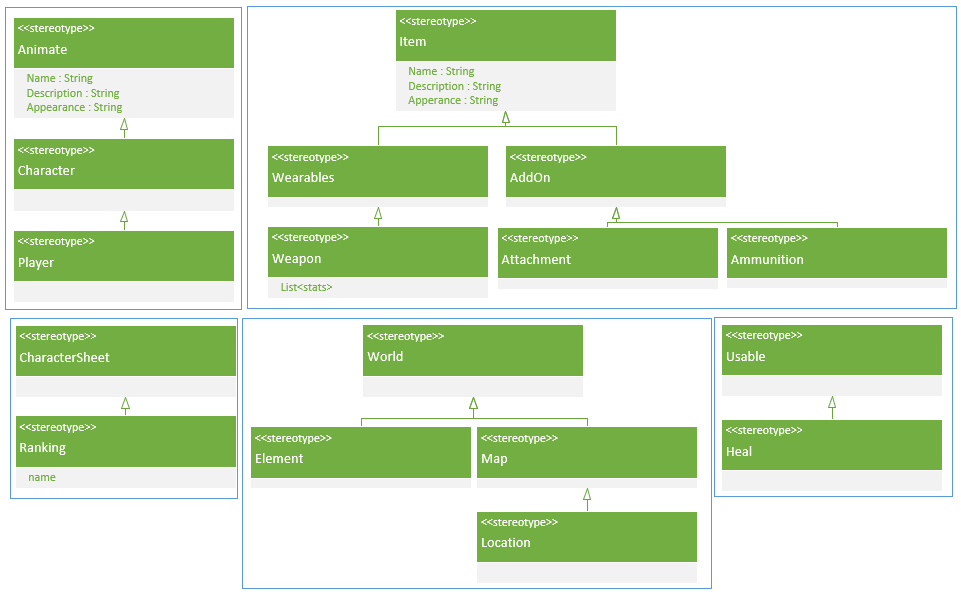
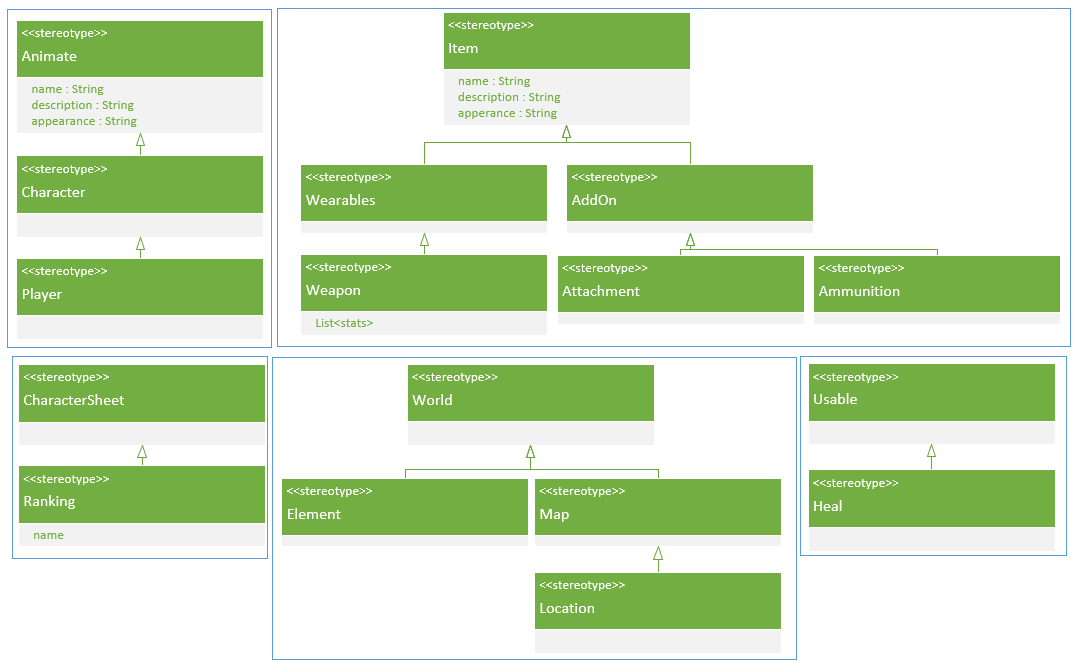
Update on Overleaf.

Changed region(s): [[0.0, 0.0, 0.999, 1.0]]

diff --git a/02_cor/12_application.tex b/02_cor/12_application.tex
@@ -43,6 +43,7 @@ Bien que connu depuis l'ann\'ee 2000, l'intérêt pour le principe du \emph{Batt
 Le succès des \emph{Hunger Games} a amené les développeurs du jeu \emph{Arma II} à créer un mode de jeu basé sur les mêmes règles. Ce mode sera alors appelé \emph{DayZ} et deviendra par la suite un jeu \emph{standalone}. Un mode voit également le jour : \emph{Battle Royale}. Développé par Brendan Greene tout d'abord pour \emph{Arma II} puis pour \emph{Arma III}, ce mode gagne suffisament en popularité pour qu'il donne naissance au projet de jeu \emph{PlayerUnknown's Battlegrounds} (PUBG) --- \emph{PlayerUnknown} étant le pseudonyme en ligne utilisé par Brendan Greene.
 
 \section{Les règles de PUBG}
+\label{sect.pubg}
 Les r\`egles du jeu PUBG vont comme suit.
 Un avion parcourt une ligne droite au-dessus d'un territoire, et les 100 joueurs de la partie doivent sauter de cet avion afin d'être parachutés à l'endroit de leur choix --- à condition qu'il soit à portée de parachutage. Une fois arrivés au sol, les joueurs partent à la recherche d'armes et d'équipements dans des bâtiments et doivent tuer les autres joueurs jusqu'à ce qu'il ne reste qu'un seul survivant, lequel gagne alors la partie. Il est également possible de jouer en \'equipes de deux ou quatre joueurs, o\`u la dernière équipe encore vivante est l'\'equipe gagnante. Afin de limiter la durée d'une partie, une zone circulaire est définie sur la carte une fois que tous les joueurs ont atterri, et cette zone se réduit au cours de la partie --- ce qu'on appelle la \emph{Blue Zone}. Les joueurs en dehors de la zone subissent une certaine quantité de dégâts s'ils restent \`a l'ext\'erieur de cette zone, et ces dégâts augmentent au fur et à mesure que le cercle se resserre. Une autre zone apparaît également sur la carte : la \emph{Red Zone}. C'est une zone de bombardement qui change d'emplacement régulièrement dans une partie. Lorsque cette zone est active, plusieurs bombes tombent au sol, et une seule bombe suffit à tuer un joueur.
 %
@@ -124,12 +125,12 @@ minuscule.
 - Pour la classe associative Attack, je ne vois toujours pas la ligne
   pointillee. De plus, cette classe peut etre stereotypee avec
   <<Attack>> mais elle doit aussi avoir un nom de classe!  Nom
-  possible: PUBGAttack?  SoldierAttack?
+  possible: PUBGAttack?  PlayerAttack?
 
 - Je n'aime toujours pas le terme <<Element>>, trop generique!
   <<WorldElement>> serait-il possible?
 
-- Je n'aime pas non plus <<Contain>> pour les Soldier dans Plane --
+- Je n'aime pas non plus <<Contain>> pour les Player dans Plane --
   trop generique.  Je suggere <<TravelOn>> qui indique qu'une personne
   voyage sur un appareil/moyen de locomotion.
 
@@ -167,14 +168,25 @@ partie de PUBG.
 pour ne pas confondre avec <<une partie du jeu>> (une instance du jeu
 en cours d'ex\'ecution).}
 
-\ACOMPLETER{Ici, il faudrait décrire un peu les éléments de cette
-figure. Pas tous, mais ceux qui te semblent particulièrement
-intéressants ou signficatifs pour expliquer PUBG. Ce que je veux dire,
-en gros, c'est de décrire en quelques mots/phrases certains morceaux
-du diagramme --- classes et associations reliées.}
+Lors de la description du jeu présenté à la Section~\ref{sect.pubg} nous avons cité quelques éléments de \emph{gameplay} présents dans le jeu.
+Nous avions décris :
+\begin{itemize}
+    \item Un avion parcours un territoire, il contient 100 joueurs
+    \item Les joueurs ramassent des armes
+    \item Ils doivent tuer les autres joueurs
+    \item Une \emph{BlueZone} délimite une zone à l'extérieur de laquelle un joueur subit des dégâts
+    \item une \emph{RedZone} délimite une zone de bombardement
+\end{itemize}
 
-
-
+Tous ces éléments aupravant décrits sous forme textuelle ont été modélisés dans un modèle UML utilisant \emph{Game Genesis} dans la Figure~\ref{fig.PUBG_model}. 
+On retrouve :
+\begin{itemize}
+    \item un objet \texttt{Plane} (avion) qui \texttt{Travel} (voyage) une \texttt{Map} (carte)
+    \item un \texttt{Player} qui \texttt{Equip} une \texttt{Weapon} (armes)
+    \item un \texttt{Player} qui \texttt{Attack} un \texttt{Player}
+    \item une \texttt{BlueZone} qui a une \texttt{size} (taille) et qui inflige des \texttt{damages} (dommages).
+    \item une \texttt{RedZone} qui possède un \texttt{BombNumber} (nombre de bombes) et une \texttt{duration} (durée de vie)
+\end{itemize}
 
 
 
@@ -184,11 +196,11 @@ du diagramme --- classes et associations reliées.}
 \begin{figure}
     \centering
     \includegraphics[width=6cm]{10_img/chap6/attack_min.PNG}
-    \caption{Le mod\`ele pour un \texttt{Soldier} qui en attaque un autre.}
+    \caption{Le mod\`ele pour un \texttt{Player} qui en attaque un autre.}
     \label{fig.PUBG_attack_min}
 \end{figure}
 
-Dans une partie de PUBG, le but ultime pour un joueur est d'éliminer les autres joueurs et de sortir vainqueur en tant que dernier survivant. La notion d'attaque entre joueurs est donc essentielle dans la description des éléments de \emph{Mechanics} de PUBG. Ici, elle est représentée par une association récursive sur \texttt{Soldier} avec l'interaction \texttt{Attack} --- présentée dans la Figure~\ref{fig.PUBG_attack_min}. 
+Dans une partie de PUBG, le but ultime pour un joueur est d'éliminer les autres joueurs et de sortir vainqueur en tant que dernier survivant. La notion d'attaque entre joueurs est donc essentielle dans la description des éléments de \emph{Mechanics} de PUBG. Ici, elle est représentée par une association récursive sur \texttt{Player} avec l'interaction \texttt{Attack} --- présentée dans la Figure~\ref{fig.PUBG_attack_min}. 
 
 Afin de définir plus précisément l'interaction \texttt{Attack}, le \emph{game designer} peut décider d'y intégrer des attributs et des méthodes afin de mieux représenter et mieux documenter une attaque entre deux joueurs. Par définition, une attaque sur PUBG consiste en le fait qu'un joueur tire sur un autre joueur pour lui faire subir des dégâts.
 %
@@ -202,15 +214,15 @@ Afin d'exprimer le calcul des dégâts nous avons mis en place la formule suivan
 %
 \begin{equation*}
 \begin{split}
-Damages& = Attacker(Weapon(Damages(Type(Value)))\\
-Protection& = Defender(Protection(DamageReduction))\\
+Damages& = Attacker(Weapon(damages(type(value)))\\
+Protection& = Defender(Protection(damageReduction))\\
 Calcul& = Defender(health) - (Damages - Protection)
 \end{split}
 \end{equation*}
 
 \end{samepage}
 
-\GT{Dans la formule: assure-toi que tu utilises une minuscule comme
+\gt{Dans la formule: assure-toi que tu utilises une minuscule comme
 première lettre si tu réfères à un attribut.}
 
 
@@ -233,26 +245,26 @@ un float, i.e., figure ou table.}
 Appliquer ce calcul des dégâts pourrait par exemple donner la simulation suivante~: 
 {\footnotesize
 \begin{framed}
-Un \texttt{Soldier}, appelé \texttt{Soldier25}, possédant une arme de type \texttt{Kar98k}, effectue un tir à la tête sur un autre joueur, appelé \texttt{Soldier26}, portant un \texttt{HelmetT2}.
+Un \texttt{Player}, appelé \texttt{Player25}, possédant une arme de type \texttt{Kar98k}, effectue un tir à la tête sur un autre joueur, appelé \texttt{Player26}, portant un \texttt{HelmetT2}.
 
 
 \begin{equation*}
 \begin{split}
-Damages& = Attacker:\texttt{Soldier25}(\texttt{Weapon}:\texttt{Kar98k}(Damages(Type:HeadShot(197.50)))\\
-Protection& = Defender:\texttt{Soldier26}(Protection:\texttt{HelmetT2}(DamageReduction:40\%))\\
-Calcul& = Defender:\texttt{Soldier26}(Health:100) - (197.50 - (Protection:40\%))\\
+Damages& = Attacker:\texttt{Player25}(\texttt{Weapon}:\texttt{Kar98k}(damages(type:HeadShot(197.50)))\\
+Protection& = Defender:\texttt{Player26}(Protection:\texttt{HelmetT2}(damageReduction:40\%))\\
+Calcul& = Defender:\texttt{Player26}(health:100) - (197.50 - (Protection:40\%))\\
 Result& = -18.5
 \end{split}
 \end{equation*}
 
 
-Donc, dans cet exemple, l'attaque génère 118.5 points de dégâts, laissant \texttt{Soldier26} avec un total de vie de -18.5. Ce total négatif indique alors la mort de \texttt{Soldier26}.
+Donc, dans cet exemple, l'attaque génère 118.5 points de dégâts, laissant \texttt{Player26} avec un total de vie de -18.5. Ce total négatif indique alors la mort de \texttt{Player26}.
 \end{framed}
 }
 
 \goodbreak
 \begin{samepage}
-La mort d'un \texttt{Soldier} si sa vie est inférieure à 0 peut être exprimée par les contraintes suivantes~:
+La mort d'un \texttt{Player} si sa vie est inférieure à 0 peut être exprimée par les contraintes suivantes~:
 {
 \footnotesize
 \begin{framed}
@@ -290,7 +302,7 @@ La mort d'un \texttt{Soldier} si sa vie est inférieure à 0 peut être exprimé
 \gt{Dans la figure: tu ne peux pas avoir le nom de classe
 \texttt{Player} qui soit en plus st\'er\'eotyp\'e par
 <<\texttt{Player}>>.}
-\eh{Remplacé par Soldier}
+\eh{Remplacé par Player}
 
 \gt{De plus: Pourquoi Player68?  Comme indiqu\'e ailleurs, avec les
 st\'er\'eotypes, tu d\'efinis des classes, et non des instances. Or,

diff --git a/02_cor/11_GG.tex b/02_cor/11_GG.tex
@@ -208,9 +208,9 @@ présentées aux figures~\ref{fig.GG} et~\ref{fig.GG2}, alors que les
 détails des sous-arbres sont présentés en annexe, dans une figure
 dont le numéro est indiqué sur ces figures.
 
-La figure~\ref{fig.meta_class} \ACOMPLETER{expliquer le rôle de cette
-figure, ce qu'elle représente --- et le fait qu'il ne s'agit que d'un
-extrait!}
+La figure~\ref{fig.meta_class} présente les différentes <<~racines~>> de \emph{Game Genesis}. 
+Ce sont les premiers stéréotypes du profil qui serviront majoritairement de catégories de haut niveau pour classifier les éléments de \emph{Mechanics} décris dans un \emph{Game design document}.
+Nous présentons le profil plus en détail dans l'Annexe~\ref{AnnexeA}.
 
 
 
@@ -228,7 +228,13 @@ Nous avons ainsi extrait les catégories suivantes :
     \item \emph{Other Object}
 \end{itemize}
 
-\GT{Ci-haut: il faut expliquer pourquoi ces catégories que tu
+Ces catégories sont cependant très larges et spécifiques au jeu décrit dans le \emph{Game design document}~\cite{salazar_gdd}.
+Ces catégories ne permettent pas forcément de représenter les éléments de \emph{Mechanics} de jeux différents de \emph{Donkey Kong}.
+Par la suite nous avons essayé de définir des catégories et des éléments en fonction de différents \emph{Game design document} et de notre expérience personnelle de l'utilisation des jeux vidéos.
+Nous avons donc définis les stéréotypes présents dans les figures~\ref{fig.GG1} et~\ref{fig.GG2}.
+Ces deux figures renvoient vers une modélisation plus en détail présente dans l'Annexe~\ref{AnnexeA}.
+
+\gt{Ci-haut: il faut expliquer pourquoi ces catégories que tu
 identifies ne se retrouvent pas dans les figures 5.1 et 5.2 --- donc
 expliquer (?) qu'elles correspondent à des détails de l'annexe (?).}
 
@@ -264,7 +270,7 @@ bien ce qu'elles introduisent de nouveau.}
 \gt{Idem pour ce qui suit!}
 %
 
-\GT{Dans la figure 5.4, boite pour Sniper1. a. Changer <<stereotype>>
+\gt{Dans la figure 5.4, boite pour Sniper1. a. Changer <<stereotype>>
 par <<SniperRifle>>. b. Il devrait y avoir une ligne (sous-boite de
 couleur différente?) qui sépare le nom de la classe de liste des
 attributs.}
@@ -314,8 +320,9 @@ des valeurs \'etiquet\'ees pour sp\'ecifier des attributs.}
 \end{figure}
 
 Les éléments de \emph{Mechanics} ne sont pas tous des éléments isolés et une expérience de jeu ne serait rien sans les interactions que le joueur peut avoir avec les divers \'el\'ements du jeu.
-%
-\ACOMPLETER{Il faut dire quelques mots sur la\ldots} Figure~\ref{fig.meta_assoc}.
+
+La Figure~\ref{fig.meta_assoc} représente l'extension possible avec les stéréotypes présents dans la catégorie \texttt{Interaction}.
+Contrairement aux autres stéréorypes du profil qui étendent les classes, celui d'\texttt{Interaction} étend la \texttt{<<~metaclass~>>} \texttt{Association}.
 
 \begin{table}
 \begin{center}
@@ -379,10 +386,10 @@ Voici quand m\^eme une br\`eve liste de contraintes envisageables dans un profil
 \begin{itemize}
     \item Une interaction entre \texttt{Player} et \texttt{Weapon} ne peut être que \texttt{Grab} ou \texttt{Equip};
     \item Une interaction entre \texttt{Player} et \texttt{Equipment} ne peut être que \texttt{Grab} ou \texttt{Equip};
-    \item Une interaction sur un \texttt{AddOn} doit être entre trois parties telles que \texttt{Player}, \texttt{<<attach>>}, \texttt{Addon} on \texttt{Weapon/Equipment};
+    \item Une interaction entre \texttt{Addon} et \texttt{Weapon/Equipment} ne peut être que \texttt{Attach};
 \end{itemize}
 
-\GT{Je ne comprends pas la contrainte sur AddOn~:(} 
+\gt{Je ne comprends pas la contrainte sur AddOn~:(} 
 
 Certaines contraintes peuvent être situationnelles comme celles ci-dessous :
 \begin{itemize}
@@ -391,18 +398,27 @@ Certaines contraintes peuvent être situationnelles comme celles ci-dessous :
 \end{itemize}
 
 
-\GT{Ci-haut: dans ce cas, si tu comptes \'enoncer une telle
+\gt{Ci-haut: dans ce cas, si tu comptes \'enoncer une telle
 contrainte, il faudrait que ton profil inclut un attribut qui permet
 d'indiquer si le jeu et PvP ou non.}
+\eh{Un tel attribut serait trop contraignant dans le cadre d'une conception de jeux. Certains jeux sont PVP, d'autres PVE, d'autres ont des zones uniquement PVP et/ou PVE, certains crééent plusieurs serveurs qui sont soit PVP soit PVE, etc.
+Le PVP ou PVE sont des mécaniques de gameplay }
 
 \section{Conclusion}
+Dans ce chapitre nous avons donc réussi à exprimer les concepts de base d'un profil pour la rédaction d'un \emph{Game design document}.
+Ce profil, \emph{Game Genesis}, est cependant une version conceptuelle et incomplète de ce qui pourrait couvrir tous les besoin d'un \emph{game designer}.
+\emph{Game genesis} est partiel et incomplet car :
+\begin{itemize}
+    \item il ne couvre que les aspects \emph{Mechanics} du design d'un jeu vidéo
+    \item les catégories sont non exhaustives
+    \item le profil est spécifié de façon non formelle, aucun outil n'est développé pour l'utiliser
+\end{itemize}
+
+Cependant malgré le fait que \emph{Game genesis} ne soit qu'à l'état de preuve de concept il est intéressant de voir comment il pourrait être utilisé dans le cadre de la rédaction d'un \emph{Game design document}.
+Pouvoir utiliser le profil afin de modéliser un jeu déjà existant pourra permettre de tester le profil, l'adapter et vérifier les mécanismes qu'il propose.
+C'est ce que nous allons effectuer et présenter dans le Chapitre~\ref{chap.pubg}.
 
 
-\ACOMPLETER{Synthétiser {\bf brièvement} ce qui a été fait, en
-indiquant aussi, dès à présent, les limites --- juste Mechanics,
-inspiré principalement de X, profil spécéfié de façon informel (pas
-dans un outil). Mais tu vas quand même l'utiliser pour décrire les
-éléments de Mechanics d'un jeu.}
 
 
 %%%%%%%%%%%%%%%%%%%%%%%%%%%%%%%%%%%%%%%%%%%%%%%%%%%%%%%%%%%%%%%%%%%%%%%%%%

diff --git a/02_cor/20_annexe1_profile.tex b/02_cor/20_annexe1_profile.tex
@@ -1,5 +1,6 @@
 \appendix
 \chapter{Diagrammes de classes du profil \emph{Game Genesis}}
+\label{AnnexeA}
 
 \section{Racine}
 \begin{figure}[H]
